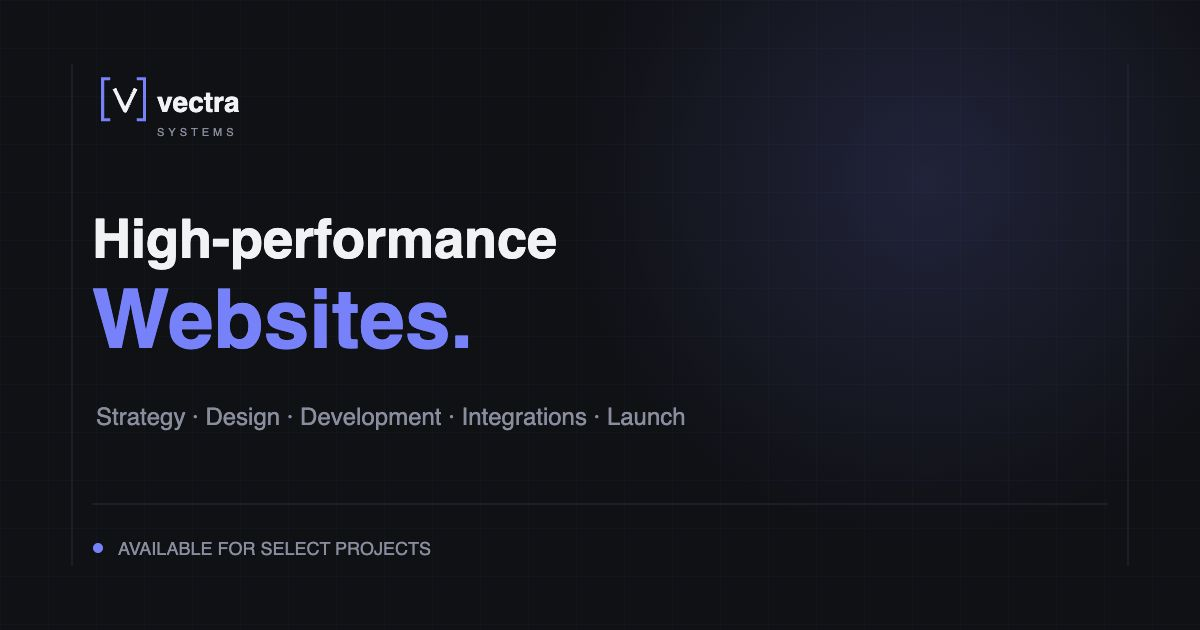
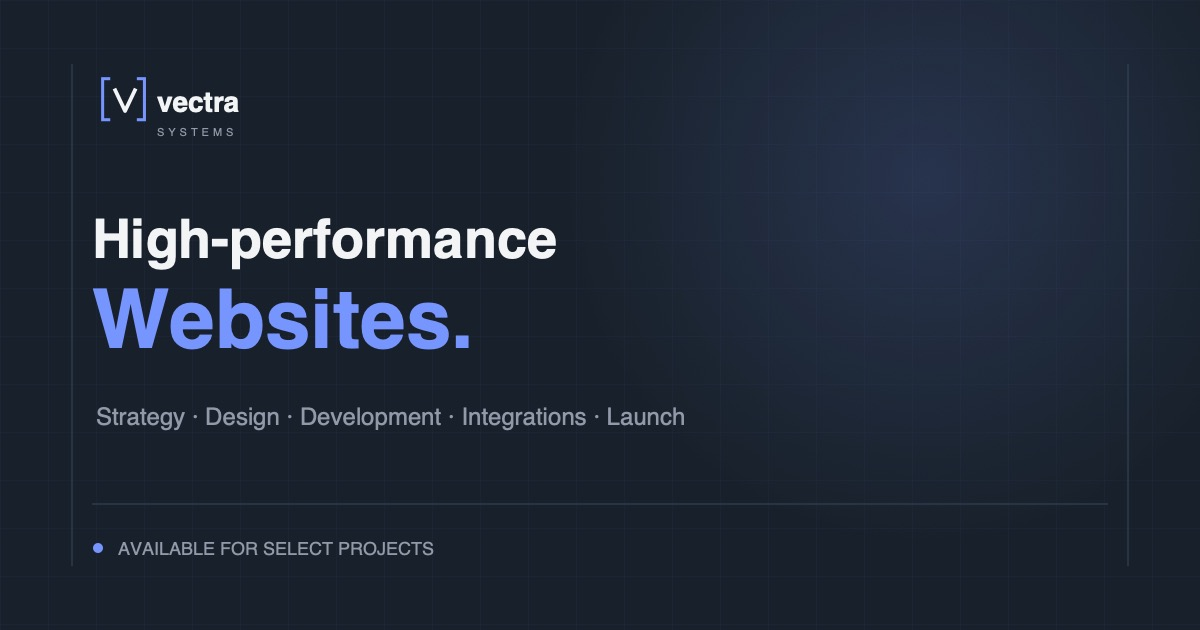
Refine Vectra brand presentation

diff --git a/styles.css b/styles.css
@@ -55,10 +55,10 @@
 }
 
 :root {
-  --bg: #0e1015;
-  --surface: #151821;
-  --surface-strong: #1d212c;
-  --border: #2b303d;
+  --bg: #18212b;
+  --surface: #202b38;
+  --surface-strong: #293645;
+  --border: #38485a;
   --accent: #7795ff;
   --accent-dark: #5574e0;
   --cream: #f1f0ec;
@@ -141,18 +141,18 @@ button {
   display: grid;
   grid-template-columns: 1fr auto 1fr;
   align-items: center;
-  min-height: 68px;
+  min-height: 76px;
   padding: 0 38px;
   border-bottom: 1px solid var(--border);
-  background: rgb(14 16 21 / 88%);
+  background: rgb(24 33 43 / 90%);
   backdrop-filter: blur(22px);
 }
 
 .logo {
   display: block;
   justify-self: start;
-  width: 142px;
-  height: 40px;
+  width: 190px;
+  height: 56px;
 }
 
 .logo img {
@@ -262,7 +262,7 @@ main > section:not(.hero) {
 .hero {
   display: grid;
   grid-template-columns: minmax(340px, 0.82fr) minmax(520px, 1.18fr);
-  min-height: calc(100vh - 68px);
+  min-height: calc(100vh - 76px);
   padding-top: 48px;
   padding-bottom: 48px;
 }
@@ -298,6 +298,18 @@ main > section:not(.hero) {
   font: 600 10px var(--sans);
   letter-spacing: 0.14em;
   text-transform: uppercase;
+}
+
+.brand-principle {
+  margin: 0 0 18px;
+  color: var(--cream);
+  font: 600 clamp(0.72rem, 1vw, 0.88rem) var(--mono);
+  letter-spacing: 0.08em;
+  text-transform: uppercase;
+}
+
+.brand-principle span {
+  color: var(--accent);
 }
 
 .hero h1 {
@@ -1039,7 +1051,7 @@ main > section:not(.hero) {
   border: 1px solid var(--border);
   border-radius: 0;
   outline: 0;
-  background: #11141b;
+  background: #141d27;
   font-size: 13px;
   transition: border-color 180ms ease, box-shadow 180ms ease;
 }
@@ -1102,7 +1114,7 @@ main > section:not(.hero) {
   padding: 0 32px;
   color: var(--muted);
   border-top: 1px solid var(--border);
-  background: rgb(14 16 21 / 90%);
+  background: rgb(24 33 43 / 92%);
   font: 500 9px var(--sans);
 }
 
@@ -1126,7 +1138,7 @@ main > section:not(.hero) {
   padding: 38px;
   color: var(--text);
   border: 1px solid rgb(119 149 255 / 45%);
-  background: #171a22;
+  background: #202b38;
   box-shadow: 0 30px 100px rgb(0 0 0 / 70%);
   cursor: default;
 }
@@ -1248,8 +1260,8 @@ main > section:not(.hero) {
   }
 
   .logo {
-    width: 112px;
-    height: 34px;
+    width: 160px;
+    height: 48px;
   }
 
   .site-nav {
@@ -1307,6 +1319,11 @@ main > section:not(.hero) {
     padding: 0 18px;
   }
 
+  .logo {
+    width: 132px;
+    height: 42px;
+  }
+
   .menu-button {
     display: block;
     grid-column: 2;
@@ -1327,7 +1344,7 @@ main > section:not(.hero) {
     display: grid;
     gap: 0;
     padding: 18px;
-    background: rgb(14 16 21 / 98%);
+    background: rgb(24 33 43 / 98%);
     border-bottom: 1px solid var(--border);
     transform: translateY(-140%);
     visibility: hidden;

diff --git a/index.html b/index.html
@@ -7,7 +7,7 @@
       name="description"
       content="Vectra Systems designs and builds fast, accessible websites for businesses that need more than a template."
     />
-    <meta name="theme-color" content="#0e1015" />
+    <meta name="theme-color" content="#18212b" />
     <meta property="og:type" content="website" />
     <meta property="og:title" content="Vectra Systems | High-Performance Websites" />
     <meta
@@ -72,6 +72,7 @@
 
           <div class="hero__heading reveal">
             <p class="section-index">[000] / WEB PRODUCTION STUDIO</p>
+            <p class="brand-principle">Traditional standards, <span>modern solutions.</span></p>
             <h1 id="hero-title">
               <span>High-performance</span>
               <strong>Websites.</strong>
